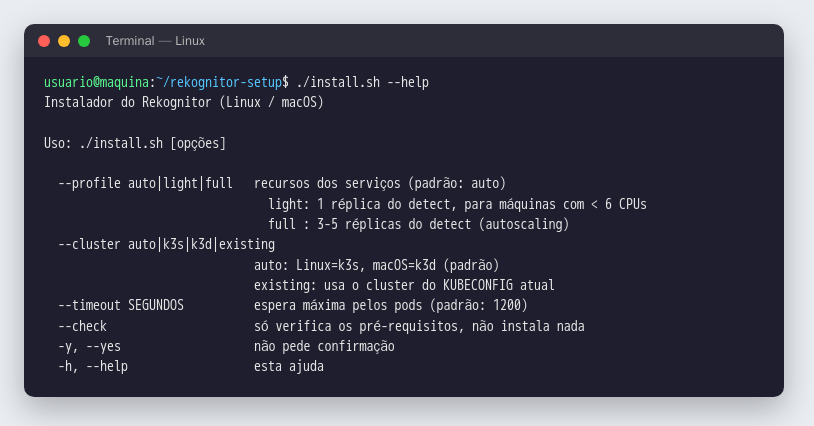
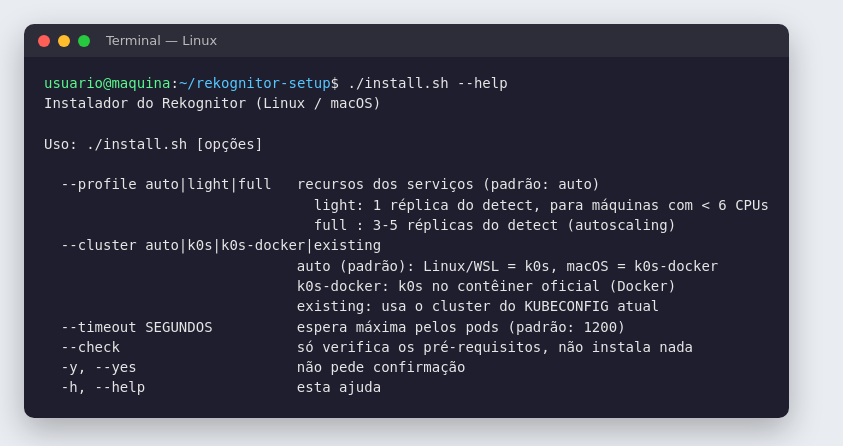
feat!: k0s everywhere instead of k3s/k3d
Same Kubernetes distribution and version (k0s v1.37.1+k0s.0, the one the
rekognitor.helm CI validates the charts on) on every platform:
- Linux and Windows (inside the Rekognitor WSL2 distro): native k0s
  (k0s install controller --single), checksum-verified binary
- macOS: the official k0sproject/k0s container on Docker Desktop or Colima
  (--cluster k0s-docker)
- local-path-provisioner as the default StorageClass (k0s ships none)
- k0s has no LoadBalancer: streamer and mqtt are NodePorts on every platform
  (UI 31881, MQTT 31883, MQTT/WebSocket 31882), values/common/
- uninstall: k0s stop + reset, or the container and its volume
- CI: install/upgrade/uninstall for both k0s and k0s-docker

diff --git a/tools/render-terminal.py b/tools/render-terminal.py
@@ -62,6 +62,27 @@ def powershell_to_html(text: str) -> str:
     return "\n".join(lines)
 
 
+def bash_plain_to_html(text: str) -> str:
+    """Colour a log captured without a tty (e.g. `| tee` in CI) the way install.sh prints it."""
+    G, Y, R, C = COLOURS["32"], COLOURS["33"], COLOURS["31"], COLOURS["36"]
+    lines = []
+    for line in text.splitlines():
+        esc = html.escape(line)
+        s = line.strip()
+        if s.startswith("==>"):
+            esc = f'<span style="color:{C};font-weight:700">{esc}</span>'
+        elif s.startswith("✔"):
+            esc = esc.replace("✔", f'<span style="color:{G}">✔</span>', 1)
+        elif s.startswith("! "):
+            esc = esc.replace("!", f'<span style="color:{Y}">!</span>', 1)
+        elif s.startswith("✘"):
+            esc = f'<span style="color:{R};font-weight:700">{esc}</span>'
+        elif s[:1] in "╔║╚" or s.startswith(("Tudo certo", "Rekognitor desinstalado", "Rekognitor removido")):
+            esc = f'<span style="color:{G};font-weight:700">{esc}</span>'
+        lines.append(esc)
+    return "\n".join(lines)
+
+
 def main() -> None:
     ap = argparse.ArgumentParser()
     ap.add_argument("log")
@@ -73,7 +94,12 @@ def main() -> None:
     a = ap.parse_args()
 
     raw = open(a.log, encoding="utf-8", errors="replace").read().replace("\r\n", "\n").replace("\r", "")
-    body = ansi_to_html(raw) if a.theme == "bash" else powershell_to_html(raw)
+    if a.theme == "powershell":
+        body = powershell_to_html(raw)
+    elif ANSI.search(raw):
+        body = ansi_to_html(raw)
+    else:
+        body = bash_plain_to_html(raw)
     if a.theme == "powershell":
         bg, fg, bar = "#012456", "#eeedf0", "#f3f3f3"
         prompt = f'<span style="color:#eeedf0">{html.escape(a.prompt or "C:\\Rekognitor>")} </span>{html.escape(a.cmd)}\n' if a.cmd else ""
@@ -96,7 +122,7 @@ pre{{margin:0;background:{bg};color:{fg};font:14px/1.45 "DejaVu Sans Mono",Conso
         f.write(doc)
     # window size for the headless-Chrome screenshot (tools/screenshots.sh)
     plain = ANSI.sub("", raw).splitlines() + ([a.cmd + " " * 40] if a.cmd else [])
-    width = max(760, int(max(len(l) for l in plain) * 8.45) + 40) + 48
+    width = max(760, int(max(len(l) for l in plain) * 8.6) + 56) + 48
     height = int(len(plain) * 20.3) + 48 + 34 + 36 + 4
     print(f"{width},{height}")
 
